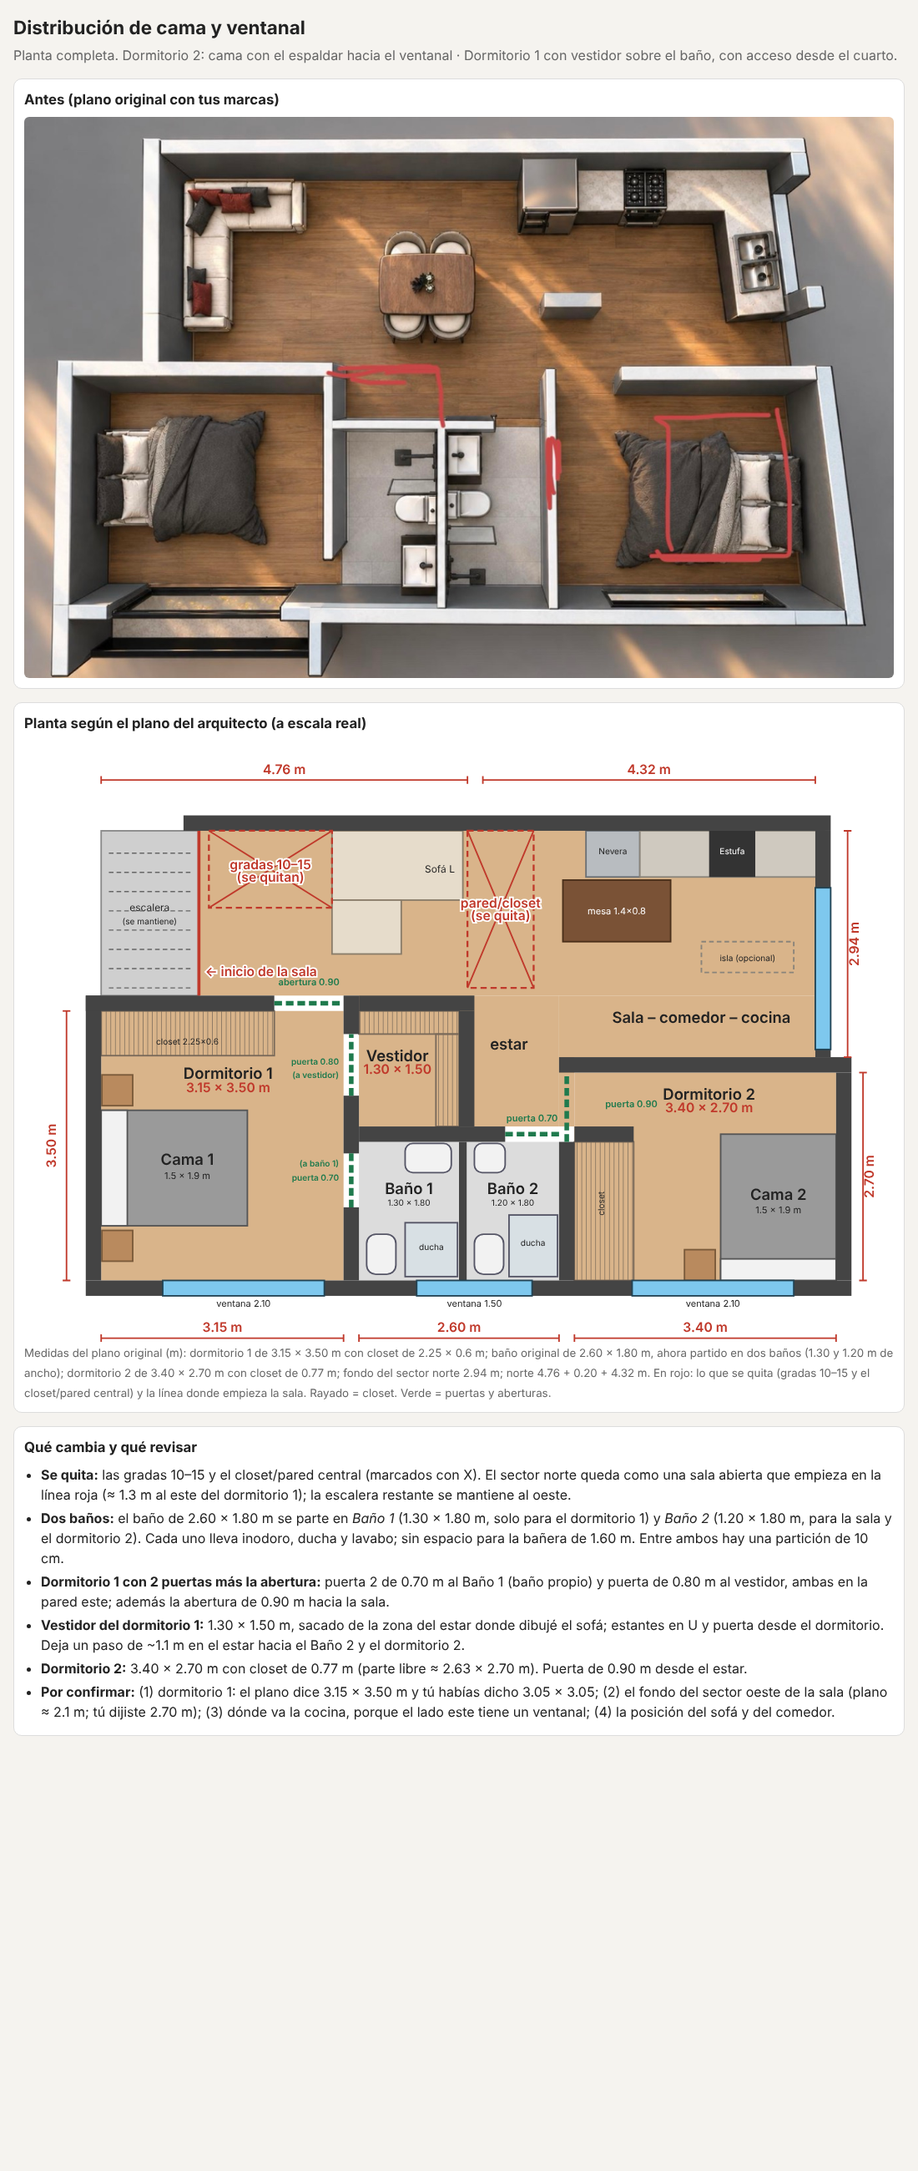
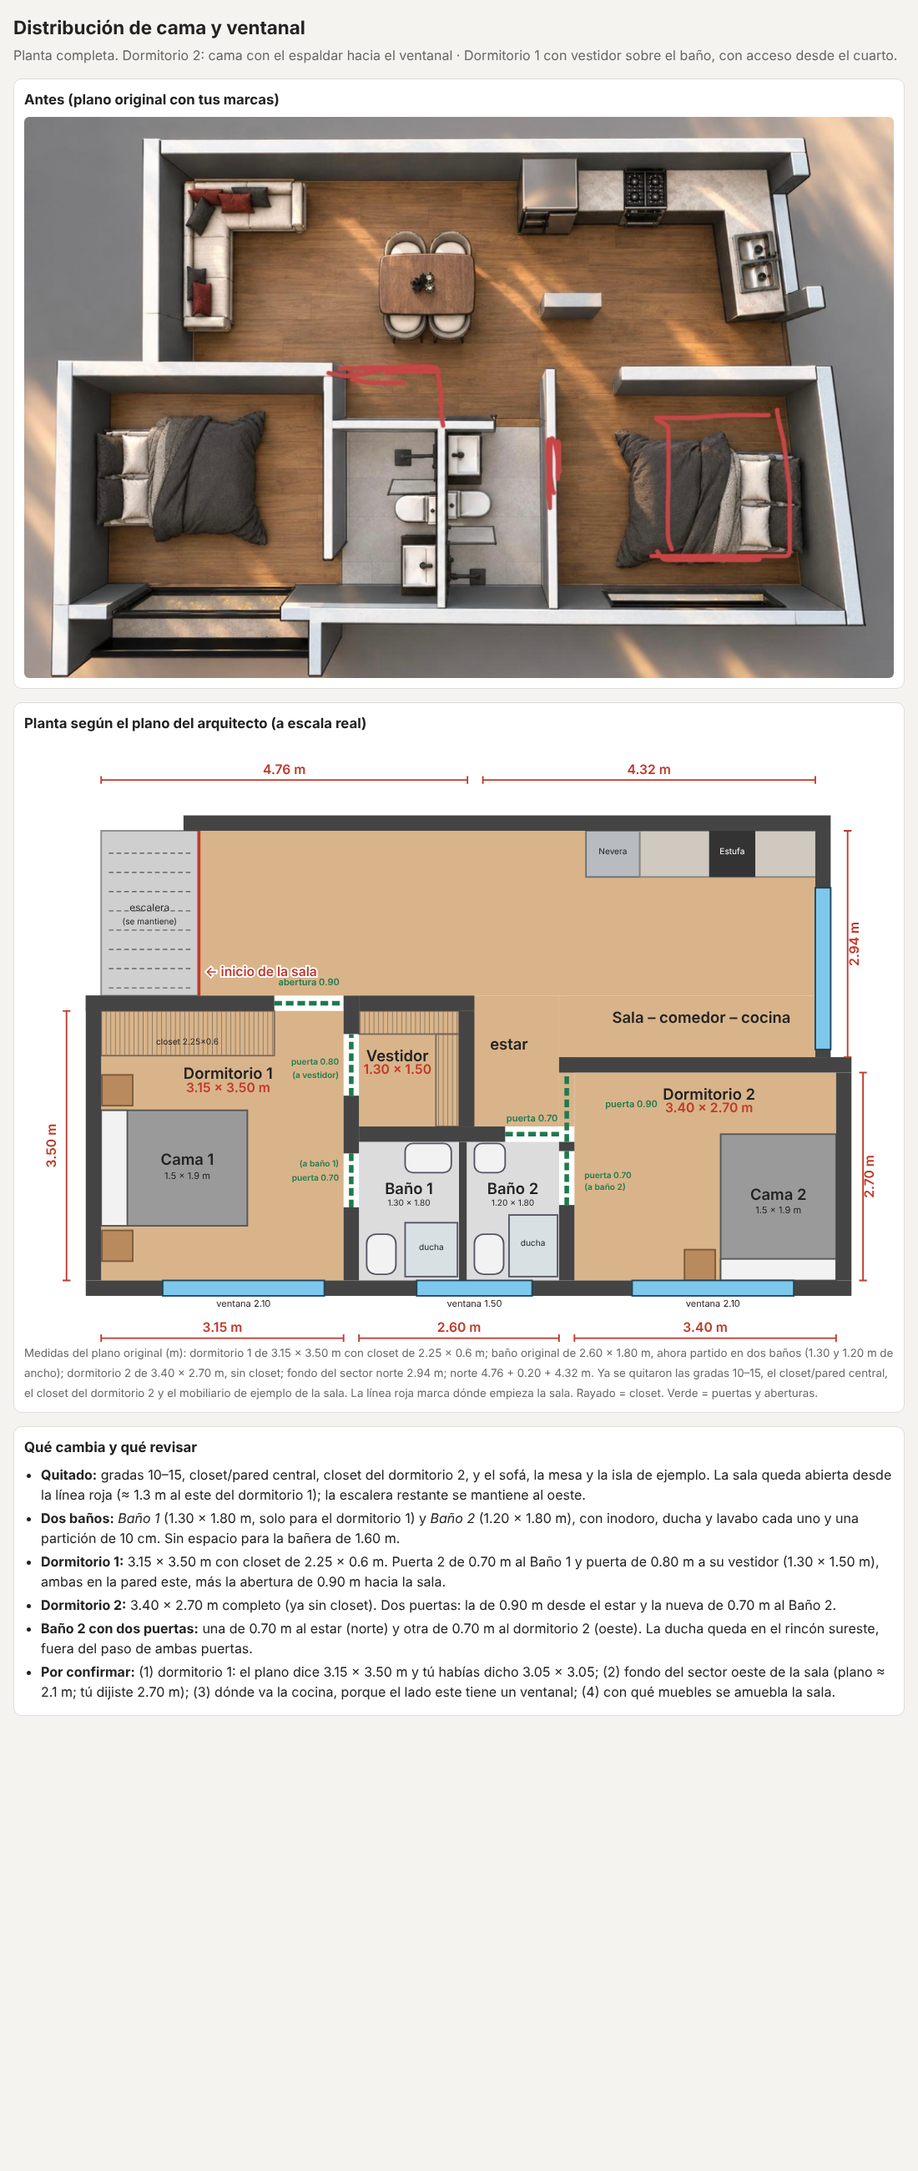
Quitar elementos marcados con X y agregar puerta del dormitorio 2 al baño 2
Claude-Session: https://claude.ai/code/session_01FjBeNf4WjH2KP9gBJAno4x

diff --git a/index.html b/index.html
@@ -85,18 +85,11 @@
       <text x="880" y="595" text-anchor="middle" font-size="16" class="lbl" >Cama 2</text>
       <text x="880" y="613" text-anchor="middle" font-size="12" >1.5 × 1.9 m</text>
       <rect x="758" y="660" width="40" height="40" fill="#b98a5e" stroke="#7a5a3a" stroke-width="2" />
-      <rect x="300" y="116" width="170" height="90" fill="#e6dccb" stroke="#8a7d6a" stroke-width="2" />
-      <rect x="300" y="206" width="90" height="70" fill="#e6dccb" stroke="#8a7d6a" stroke-width="2" />
-      <text x="440" y="170" text-anchor="middle" font-size="13" >Sofá L</text>
-      <rect x="600" y="180" width="140" height="80" fill="#7a5236" stroke="#4a2f1a" stroke-width="2" />
-      <text x="670" y="225" text-anchor="middle" font-size="12" style="fill:#fff">mesa 1.4×0.8</text>
       <rect x="630" y="116" width="70" height="60" fill="#b8bcc0" stroke="#6b7076" stroke-width="2" />
       <text x="665" y="146" text-anchor="middle" font-size="11" >Nevera</text>
       <rect x="700" y="116" width="240" height="60" fill="#cfc9bf" stroke="#8a847a" stroke-width="2" />
       <rect x="790" y="116" width="60" height="60" fill="#333" />
       <text x="820" y="146" text-anchor="middle" font-size="11" style="fill:#fff">Estufa</text>
-      <rect x="780" y="260" width="120" height="40" fill="none" stroke="#8a847a" stroke-width="2" stroke-dasharray="6 4"/>
-      <text x="840" y="285" text-anchor="middle" font-size="11" >isla (opcional)</text>
       <rect x="345" y="640" width="38" height="52" fill="#f2f2f2" stroke="#556" stroke-width="2" rx="12"/>
       <rect x="395" y="625" width="68" height="70" fill="#d8e0e4" stroke="#556" stroke-width="2" />
       <text x="429" y="660" text-anchor="middle" font-size="11" >ducha</text>
@@ -109,7 +102,6 @@
       <rect x="435" y="380" width="30" height="120" fill="url(#ach)" stroke="#7a6a5a" stroke-width="2"/>
       <rect x="0" y="350" width="225" height="58" fill="url(#ach)" stroke="#7a6a5a" stroke-width="2"/>
       <text x="112" y="394" text-anchor="middle" font-size="11" >closet 2.25×0.6</text>
-      <rect x="615" y="520" width="77" height="180" fill="url(#ach)" stroke="#7a6a5a" stroke-width="2"/>
       <rect x="-20" y="700" width="995" height="20" fill="var(--wall)" />
       <rect x="-20" y="330" width="20" height="370" fill="var(--wall)" />
       <rect x="-20" y="330" width="245" height="20" fill="var(--wall)" />
@@ -120,22 +112,12 @@
       <rect x="335" y="330" width="150" height="20" fill="var(--wall)" />
       <rect x="465" y="350" width="20" height="150" fill="var(--wall)" />
       <rect x="335" y="500" width="190" height="20" fill="var(--wall)" />
-      <rect x="595" y="520" width="20" height="180" fill="var(--wall)" />
-      <rect x="615" y="500" width="77" height="20" fill="var(--wall)" />
+      <rect x="595" y="602" width="20" height="98" fill="var(--wall)" />
+      <rect x="595" y="520" width="20" height="12" fill="var(--wall)" />
       <rect x="595" y="410" width="380" height="20" fill="var(--wall)" />
       <rect x="955" y="430" width="20" height="270" fill="var(--wall)" />
       <rect x="928" y="116" width="20" height="294" fill="var(--wall)" />
       <rect x="107" y="96" width="841" height="20" fill="var(--wall)" />
-      <rect x="140" y="116" width="160" height="100" fill="none" stroke="var(--new)" stroke-width="2.5" stroke-dasharray="8 5"/>
-      <line x1="140" y1="116" x2="300" y2="216" class="dim" />
-      <line x1="140" y1="216" x2="300" y2="116" class="dim" />
-      <text x="220" y="166" text-anchor="middle" font-size="12" class="dimt" style="paint-order:stroke;stroke:#fff;stroke-width:4px">gradas 10–15</text>
-      <text x="220" y="182" text-anchor="middle" font-size="12" class="dimt" style="paint-order:stroke;stroke:#fff;stroke-width:4px">(se quitan)</text>
-      <rect x="476" y="116" width="86" height="204" fill="none" stroke="var(--new)" stroke-width="2.5" stroke-dasharray="8 5"/>
-      <line x1="476" y1="116" x2="562" y2="320" class="dim" />
-      <line x1="476" y1="320" x2="562" y2="116" class="dim" />
-      <text x="519" y="216" text-anchor="middle" font-size="12" class="dimt" style="paint-order:stroke;stroke:#fff;stroke-width:4px">pared/closet</text>
-      <text x="519" y="232" text-anchor="middle" font-size="12" class="dimt" style="paint-order:stroke;stroke:#fff;stroke-width:4px">(se quita)</text>
       <rect x="80" y="700" width="210" height="20" fill="#7ec8ee" stroke="#245" stroke-width="2" />
       <rect x="410" y="700" width="150" height="20" fill="#7ec8ee" stroke="#245" stroke-width="2" />
       <rect x="690" y="700" width="210" height="20" fill="#7ec8ee" stroke="#245" stroke-width="2" />
@@ -148,12 +130,15 @@
       <line x1="605" y1="520" x2="605" y2="430" stroke="var(--ok)" stroke-width="6" stroke-dasharray="10 5"/>
       <line x1="325" y1="605" x2="325" y2="535" stroke="var(--ok)" stroke-width="6" stroke-dasharray="10 5"/>
       <line x1="325" y1="460" x2="325" y2="380" stroke="var(--ok)" stroke-width="6" stroke-dasharray="10 5"/>
+      <line x1="605" y1="602" x2="605" y2="532" stroke="var(--ok)" stroke-width="6" stroke-dasharray="10 5"/>
       <text x="270" y="317" text-anchor="middle" font-size="12" style="fill:var(--ok)" font-weight="600">abertura 0.90</text>
       <text x="560" y="493" text-anchor="middle" font-size="12" style="fill:var(--ok)" font-weight="600">puerta 0.70</text>
       <text x="655" y="475" text-anchor="start" font-size="12" style="fill:var(--ok)" font-weight="600">puerta 0.90</text>
       <text x="309" y="570" text-anchor="end" font-size="11" style="fill:var(--ok)" font-weight="600">puerta 0.70</text>
       <text x="309" y="420" text-anchor="end" font-size="11" style="fill:var(--ok)" font-weight="600">puerta 0.80</text>
       <text x="309" y="552" text-anchor="end" font-size="11" style="fill:var(--ok)" font-weight="600">(a baño 1)</text>
+      <text x="628" y="567" text-anchor="start" font-size="11" style="fill:var(--ok)" font-weight="600">puerta 0.70</text>
+      <text x="628" y="582" text-anchor="start" font-size="11" style="fill:var(--ok)" font-weight="600">(a baño 2)</text>
       <text x="309" y="437" text-anchor="end" font-size="11" style="fill:var(--ok)" font-weight="600">(a vestidor)</text>
       <line x1="127" y1="330" x2="127" y2="116" stroke="var(--new)" stroke-width="4"/>
       <text x="135" y="305" text-anchor="start" font-size="12" class="dimt" style="paint-order:stroke;stroke:#fff;stroke-width:4px">← inicio de la sala</text>
@@ -167,7 +152,6 @@
       <text x="385" y="432" text-anchor="middle" font-size="11" class="dimt" >1.30 × 1.50</text>
       <text x="790" y="465" text-anchor="middle" font-size="17" class="lbl" >Dormitorio 2</text>
       <text x="790" y="482" text-anchor="middle" font-size="14" class="dimt" >3.40 × 2.70 m</text>
-      <text x="654" y="600" text-anchor="middle" font-size="11" transform="rotate(-90 654 600)">closet</text>
       <text x="240" y="340" text-anchor="middle" font-size="1" ></text>
       <text x="530" y="400" text-anchor="middle" font-size="14" class="lbl" >estar</text>
       <text x="780" y="365" text-anchor="middle" font-size="17" class="lbl" >Sala – comedor – cocina</text>
@@ -204,18 +188,18 @@
       <line x1="965" y1="116" x2="975" y2="116" class="dim" />
       <text transform="translate(984,263.0) rotate(-90)" text-anchor="middle" font-size="14" class="dimt">2.94 m</text>
     </svg>
-    <small>Medidas del plano original (m): dormitorio 1 de 3.15 × 3.50 m con closet de 2.25 × 0.6 m; baño original de 2.60 × 1.80 m, ahora partido en dos baños (1.30 y 1.20 m de ancho); dormitorio 2 de 3.40 × 2.70 m con closet de 0.77 m; fondo del sector norte 2.94 m; norte 4.76 + 0.20 + 4.32 m. En rojo: lo que se quita (gradas 10–15 y el closet/pared central) y la línea donde empieza la sala. Rayado = closet. Verde = puertas y aberturas.</small>
+    <small>Medidas del plano original (m): dormitorio 1 de 3.15 × 3.50 m con closet de 2.25 × 0.6 m; baño original de 2.60 × 1.80 m, ahora partido en dos baños (1.30 y 1.20 m de ancho); dormitorio 2 de 3.40 × 2.70 m, sin closet; fondo del sector norte 2.94 m; norte 4.76 + 0.20 + 4.32 m. Ya se quitaron las gradas 10–15, el closet/pared central, el closet del dormitorio 2 y el mobiliario de ejemplo de la sala. La línea roja marca dónde empieza la sala. Rayado = closet. Verde = puertas y aberturas.</small>
   </section>
 
     <section class="card">
     <h2>Qué cambia y qué revisar</h2>
     <ul>
-      <li><b>Se quita:</b> las gradas 10–15 y el closet/pared central (marcados con X). El sector norte queda como una sala abierta que empieza en la línea roja (≈ 1.3 m al este del dormitorio 1); la escalera restante se mantiene al oeste.</li>
-      <li><b>Dos baños:</b> el baño de 2.60 × 1.80 m se parte en <i>Baño 1</i> (1.30 × 1.80 m, solo para el dormitorio 1) y <i>Baño 2</i> (1.20 × 1.80 m, para la sala y el dormitorio 2). Cada uno lleva inodoro, ducha y lavabo; sin espacio para la bañera de 1.60 m. Entre ambos hay una partición de 10 cm.</li>
-      <li><b>Dormitorio 1 con 2 puertas más la abertura:</b> puerta 2 de 0.70 m al Baño 1 (baño propio) y puerta de 0.80 m al vestidor, ambas en la pared este; además la abertura de 0.90 m hacia la sala.</li>
-      <li><b>Vestidor del dormitorio 1:</b> 1.30 × 1.50 m, sacado de la zona del estar donde dibujé el sofá; estantes en U y puerta desde el dormitorio. Deja un paso de ~1.1 m en el estar hacia el Baño 2 y el dormitorio 2.</li>
-      <li><b>Dormitorio 2:</b> 3.40 × 2.70 m con closet de 0.77 m (parte libre ≈ 2.63 × 2.70 m). Puerta de 0.90 m desde el estar.</li>
-      <li><b>Por confirmar:</b> (1) dormitorio 1: el plano dice 3.15 × 3.50 m y tú habías dicho 3.05 × 3.05; (2) el fondo del sector oeste de la sala (plano ≈ 2.1 m; tú dijiste 2.70 m); (3) dónde va la cocina, porque el lado este tiene un ventanal; (4) la posición del sofá y del comedor.</li>
+      <li><b>Quitado:</b> gradas 10–15, closet/pared central, closet del dormitorio 2, y el sofá, la mesa y la isla de ejemplo. La sala queda abierta desde la línea roja (≈ 1.3 m al este del dormitorio 1); la escalera restante se mantiene al oeste.</li>
+      <li><b>Dos baños:</b> <i>Baño 1</i> (1.30 × 1.80 m, solo para el dormitorio 1) y <i>Baño 2</i> (1.20 × 1.80 m), con inodoro, ducha y lavabo cada uno y una partición de 10 cm. Sin espacio para la bañera de 1.60 m.</li>
+      <li><b>Dormitorio 1:</b> 3.15 × 3.50 m con closet de 2.25 × 0.6 m. Puerta 2 de 0.70 m al Baño 1 y puerta de 0.80 m a su vestidor (1.30 × 1.50 m), ambas en la pared este, más la abertura de 0.90 m hacia la sala.</li>
+      <li><b>Dormitorio 2:</b> 3.40 × 2.70 m completo (ya sin closet). Dos puertas: la de 0.90 m desde el estar y la nueva de 0.70 m al Baño 2.</li>
+      <li><b>Baño 2 con dos puertas:</b> una de 0.70 m al estar (norte) y otra de 0.70 m al dormitorio 2 (oeste). La ducha queda en el rincón sureste, fuera del paso de ambas puertas.</li>
+      <li><b>Por confirmar:</b> (1) dormitorio 1: el plano dice 3.15 × 3.50 m y tú habías dicho 3.05 × 3.05; (2) fondo del sector oeste de la sala (plano ≈ 2.1 m; tú dijiste 2.70 m); (3) dónde va la cocina, porque el lado este tiene un ventanal; (4) con qué muebles se amuebla la sala.</li>
     </ul>
   </section>
 </main>

diff --git a/render/generar_planta_escala_real.py b/render/generar_planta_escala_real.py
@@ -35,11 +35,8 @@ rect(0, 71, 190, 221, "#9a9a9a", "#555", 2); rect(0, 71, 34, 221, "#f2f2f2", "#5
 rect(1, 25, 41, 65, "#b98a5e", "#7a5a3a", 2); rect(1, 227, 41, 267, "#b98a5e", "#7a5a3a", 2)
 rect(805, 0, 955, 190, "#9a9a9a", "#555", 2); rect(805, 0, 955, 28, "#f2f2f2", "#555", 2); text(880, 105, "Cama 2", 16, "lbl"); text(880, 87, "1.5 × 1.9 m", 12)
 rect(758, 0, 798, 40, "#b98a5e", "#7a5a3a", 2)
-rect(300, 494, 470, 584, "#e6dccb", "#8a7d6a", 2); rect(300, 424, 390, 494, "#e6dccb", "#8a7d6a", 2); text(440, 530, "Sofá L", 13)  # sofá
-rect(600, 440, 740, 520, "#7a5236", "#4a2f1a", 2); text(670, 475, "mesa 1.4×0.8", 12, extra='style="fill:#fff"')
 rect(630, 524, 700, 584, "#b8bcc0", "#6b7076", 2); text(665, 554, "Nevera", 11)
 rect(700, 524, 940, 584, "#cfc9bf", "#8a847a", 2); rect(790, 524, 850, 584, "#333"); text(820, 554, "Estufa", 11, extra='style="fill:#fff"')
-rect(780, 400, 900, 440, "none", "#8a847a", 2, extra='stroke-dasharray="6 4"'); text(840, 415, "isla (opcional)", 11)
 # baño: bañera, inodoro, lavabo
 # baño 1 (de dormitorio 1): inodoro, ducha, lavabo
 rect(345, 8, 383, 60, "#f2f2f2", "#556", 2, extra='rx="12"'); rect(395, 5, 463, 75, "#d8e0e4", "#556", 2); text(429, 40, "ducha", 11)
@@ -52,7 +49,6 @@ o.append(f'<rect x="335" y="{Y(350)}" width="130" height="30" fill="url(#ach)" s
 o.append(f'<rect x="435" y="{Y(320)}" width="30" height="120" fill="url(#ach)" stroke="#7a6a5a" stroke-width="2"/>')
 # closets (rayados)
 o.append(f'<rect x="0" y="{Y(350)}" width="225" height="58" fill="url(#ach)" stroke="#7a6a5a" stroke-width="2"/>'); text(112, 306, "closet 2.25×0.6", 11)
-o.append(f'<rect x="615" y="{Y(180)}" width="77" height="180" fill="url(#ach)" stroke="#7a6a5a" stroke-width="2"/>')
 # ---- paredes
 W(-20, -20, 975, 0)                                          # sur
 W(-20, 0, 0, 370); W(-20, 350, 225, 370)                     # oeste dorm 1 + norte del closet
@@ -60,16 +56,10 @@ W(315, 0, 335, 95); W(315, 165, 335, 240); W(315, 320, 335, 370)   # este dorm 1
 W(465, 0, 475, 180)                                          # partición entre los dos baños
 W(335, 350, 485, 370); W(465, 200, 485, 350)               # norte y este del vestidor
 W(335, 180, 525, 200)                                        # norte del baño (puerta 70 cm: 525-595)
-W(595, 0, 615, 180); W(615, 180, 692, 200)                   # oeste dorm 2 + norte closet
+W(595, 0, 615, 98); W(595, 168, 615, 180)                   # oeste dorm 2 (puerta al baño 2: 98-168)
 W(595, 270, 975, 290)                                        # norte dorm 2
 W(955, 0, 975, 270)                                          # este dorm 2
 W(928, 290, 948, 584); W(107, NN, 948, NN+20)               # este y norte de la sala
-# ---- elementos que se QUITAN (fantasma con X)
-GH = 'fill="none" stroke="var(--new)" stroke-width="2.5" stroke-dasharray="8 5"'
-o.append(f'<rect x="140" y="{Y(NN)}" width="160" height="100" {GH}/>')
-line(140, NN, 300, NN-100, "dim"); line(140, NN-100, 300, NN, "dim"); text(220, NN-50, "gradas 10–15", 12, "dimt", extra='style="paint-order:stroke;stroke:#fff;stroke-width:4px"'); text(220, NN-66, "(se quitan)", 12, "dimt", extra='style="paint-order:stroke;stroke:#fff;stroke-width:4px"')
-o.append(f'<rect x="476" y="{Y(NN)}" width="86" height="204" {GH}/>')
-line(476, NN, 562, NN-204, "dim"); line(476, NN-204, 562, NN, "dim"); text(519, NN-100, "pared/closet", 12, "dimt", extra='style="paint-order:stroke;stroke:#fff;stroke-width:4px"'); text(519, NN-116, "(se quita)", 12, "dimt", extra='style="paint-order:stroke;stroke:#fff;stroke-width:4px"')
 # ---- ventanas (plano)
 for (a, b) in [(80, 290), (410, 560), (690, 900)]: rect(a, -20, b, 0, "#7ec8ee", "#245", 2)
 rect(928, 300, 948, 510, "#7ec8ee", "#245", 2)
@@ -77,11 +67,11 @@ text(185, -34, "ventana 2.10", 12); text(485, -34, "ventana 1.50", 12); text(795
 # ---- puertas
 G = 'stroke="var(--ok)" stroke-width="6" stroke-dasharray="10 5"'
 def door(x0, y0, x1, y1): o.append(f'<line x1="{x0}" y1="{Y(y0)}" x2="{x1}" y2="{Y(y1)}" {G}/>')
-door(225, 360, 315, 360); door(525, 190, 595, 190); door(605, 180, 605, 270); door(325, 95, 325, 165); door(325, 240, 325, 320)
+door(225, 360, 315, 360); door(525, 190, 595, 190); door(605, 180, 605, 270); door(325, 95, 325, 165); door(325, 240, 325, 320); door(605, 98, 605, 168)
 GT = 'style="fill:var(--ok)" font-weight="600"'
 text(270, 383, "abertura 0.90", 12, extra=GT); text(560, 207, "puerta 0.70", 12, extra=GT); text(655, 225, "puerta 0.90", 12, extra=GT, anchor="start")
 text(309, 130, "puerta 0.70", 11, extra=GT, anchor="end"); text(309, 280, "puerta 0.80", 11, extra=GT, anchor="end")
-text(309, 148, "(a baño 1)", 11, extra=GT, anchor="end"); text(309, 263, "(a vestidor)", 11, extra=GT, anchor="end")
+text(309, 148, "(a baño 1)", 11, extra=GT, anchor="end"); text(628, 133, "puerta 0.70", 11, extra=GT, anchor="start"); text(628, 118, "(a baño 2)", 11, extra=GT, anchor="start"); text(309, 263, "(a vestidor)", 11, extra=GT, anchor="end")
 # ---- línea roja: inicio de la sala
 o.append(f'<line x1="127" y1="{Y(370)}" x2="127" y2="{Y(NN)}" stroke="var(--new)" stroke-width="4"/>')
 text(135, 395, "← inicio de la sala", 12, "dimt", anchor="start", extra='style="paint-order:stroke;stroke:#fff;stroke-width:4px"')
@@ -89,7 +79,7 @@ text(135, 395, "← inicio de la sala", 12, "dimt", anchor="start", extra='style
 text(165, 262, "Dormitorio 1", 17, "lbl"); text(165, 244, "3.15 × 3.50 m", 14, "dimt")
 text(400, 112, "Baño 1", 14, "lbl"); text(400, 97, "1.30 × 1.80", 11); text(535, 112, "Baño 2", 14, "lbl"); text(535, 97, "1.20 × 1.80", 11)
 text(385, 285, "Vestidor", 14, "lbl"); text(385, 268, "1.30 × 1.50", 11, "dimt")
-text(790, 235, "Dormitorio 2", 17, "lbl"); text(790, 218, "3.40 × 2.70 m", 14, "dimt"); text(654, 100, "closet", 11, extra='transform="rotate(-90 654 %s)"' % Y(100))
+text(790, 235, "Dormitorio 2", 17, "lbl"); text(790, 218, "3.40 × 2.70 m", 14, "dimt")
 text(240, 360-0, "", 1)
 text(530, 300, "estar", 14, "lbl"); text(780, 335, "Sala – comedor – cocina", 17, "lbl")
 # ---- cotas reales
@@ -103,18 +93,18 @@ s = open(p, encoding="utf-8").read()
 a = s.index('<section class="card">\n    <h2>Planta según el plano del arquitecto (a escala real)</h2>')
 b = s.index('</section>', a) + len('</section>')
 new = ('<section class="card">\n    <h2>Planta según el plano del arquitecto (a escala real)</h2>\n    ' + svg +
-       '\n    <small>Medidas del plano original (m): dormitorio 1 de 3.15 × 3.50 m con closet de 2.25 × 0.6 m; baño original de 2.60 × 1.80 m, ahora partido en dos baños (1.30 y 1.20 m de ancho); dormitorio 2 de 3.40 × 2.70 m con closet de 0.77 m; '
-       'fondo del sector norte 2.94 m; norte 4.76 + 0.20 + 4.32 m. En rojo: lo que se quita (gradas 10–15 y el closet/pared central) y la línea donde empieza la sala. '
+       '\n    <small>Medidas del plano original (m): dormitorio 1 de 3.15 × 3.50 m con closet de 2.25 × 0.6 m; baño original de 2.60 × 1.80 m, ahora partido en dos baños (1.30 y 1.20 m de ancho); dormitorio 2 de 3.40 × 2.70 m, sin closet; '
+       'fondo del sector norte 2.94 m; norte 4.76 + 0.20 + 4.32 m. Ya se quitaron las gradas 10–15, el closet/pared central, el closet del dormitorio 2 y el mobiliario de ejemplo de la sala. La línea roja marca dónde empieza la sala. '
        'Rayado = closet. Verde = puertas y aberturas.</small>\n  </section>')
 s = s[:a] + new + s[b:]
 a2 = s.index('<h2>Qué cambia y qué revisar</h2>'); u0 = s.index('<ul>', a2); u1 = s.index('</ul>', u0) + 5
 notas = '''<ul>
-      <li><b>Se quita:</b> las gradas 10–15 y el closet/pared central (marcados con X). El sector norte queda como una sala abierta que empieza en la línea roja (≈ 1.3 m al este del dormitorio 1); la escalera restante se mantiene al oeste.</li>
-      <li><b>Dos baños:</b> el baño de 2.60 × 1.80 m se parte en <i>Baño 1</i> (1.30 × 1.80 m, solo para el dormitorio 1) y <i>Baño 2</i> (1.20 × 1.80 m, para la sala y el dormitorio 2). Cada uno lleva inodoro, ducha y lavabo; sin espacio para la bañera de 1.60 m. Entre ambos hay una partición de 10 cm.</li>
-      <li><b>Dormitorio 1 con 2 puertas más la abertura:</b> puerta 2 de 0.70 m al Baño 1 (baño propio) y puerta de 0.80 m al vestidor, ambas en la pared este; además la abertura de 0.90 m hacia la sala.</li>
-      <li><b>Vestidor del dormitorio 1:</b> 1.30 × 1.50 m, sacado de la zona del estar donde dibujé el sofá; estantes en U y puerta desde el dormitorio. Deja un paso de ~1.1 m en el estar hacia el Baño 2 y el dormitorio 2.</li>
-      <li><b>Dormitorio 2:</b> 3.40 × 2.70 m con closet de 0.77 m (parte libre ≈ 2.63 × 2.70 m). Puerta de 0.90 m desde el estar.</li>
-      <li><b>Por confirmar:</b> (1) dormitorio 1: el plano dice 3.15 × 3.50 m y tú habías dicho 3.05 × 3.05; (2) el fondo del sector oeste de la sala (plano ≈ 2.1 m; tú dijiste 2.70 m); (3) dónde va la cocina, porque el lado este tiene un ventanal; (4) la posición del sofá y del comedor.</li>
+      <li><b>Quitado:</b> gradas 10–15, closet/pared central, closet del dormitorio 2, y el sofá, la mesa y la isla de ejemplo. La sala queda abierta desde la línea roja (≈ 1.3 m al este del dormitorio 1); la escalera restante se mantiene al oeste.</li>
+      <li><b>Dos baños:</b> <i>Baño 1</i> (1.30 × 1.80 m, solo para el dormitorio 1) y <i>Baño 2</i> (1.20 × 1.80 m), con inodoro, ducha y lavabo cada uno y una partición de 10 cm. Sin espacio para la bañera de 1.60 m.</li>
+      <li><b>Dormitorio 1:</b> 3.15 × 3.50 m con closet de 2.25 × 0.6 m. Puerta 2 de 0.70 m al Baño 1 y puerta de 0.80 m a su vestidor (1.30 × 1.50 m), ambas en la pared este, más la abertura de 0.90 m hacia la sala.</li>
+      <li><b>Dormitorio 2:</b> 3.40 × 2.70 m completo (ya sin closet). Dos puertas: la de 0.90 m desde el estar y la nueva de 0.70 m al Baño 2.</li>
+      <li><b>Baño 2 con dos puertas:</b> una de 0.70 m al estar (norte) y otra de 0.70 m al dormitorio 2 (oeste). La ducha queda en el rincón sureste, fuera del paso de ambas puertas.</li>
+      <li><b>Por confirmar:</b> (1) dormitorio 1: el plano dice 3.15 × 3.50 m y tú habías dicho 3.05 × 3.05; (2) fondo del sector oeste de la sala (plano ≈ 2.1 m; tú dijiste 2.70 m); (3) dónde va la cocina, porque el lado este tiene un ventanal; (4) con qué muebles se amuebla la sala.</li>
     </ul>'''
 s = s[:u0] + notas + s[u1:]
 open(p, "w", encoding="utf-8").write(s)
